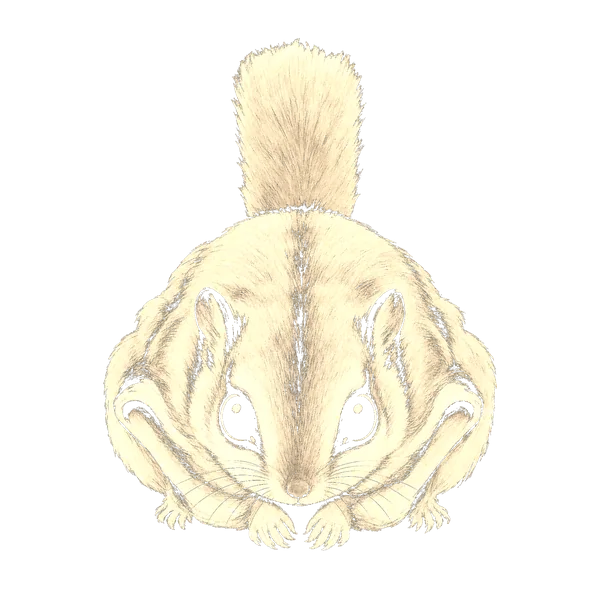
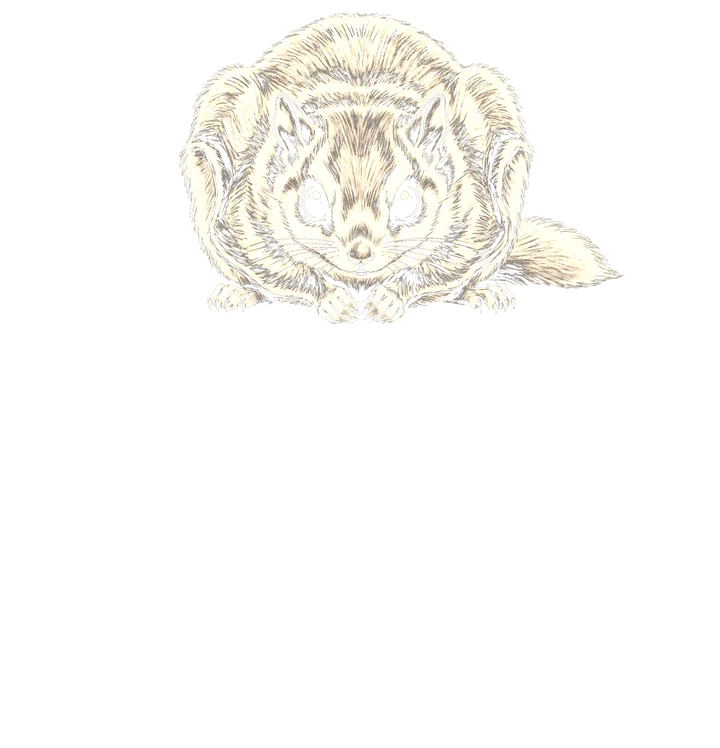
Every frame is the same animal, registered on its eyes, and the mixer has no clock
Three faults, three root causes.

1. THE FRAMES WERE NOT THE SAME SQUIRREL. They were five independent
   generations, which can never be the same individual — different faces,
   different proportions, and one of them grew a sixth leg. All five are
   redrawn from ONE reference image through a reference-driven model, so the
   face, the eyes, the fur markings, the line weight and the proportions carry
   across. Checked frame by frame: four legs and one tail in every one.

2. THEY DID NOT LINE UP. Cropping every frame to a shared bounding box was the
   wrong fix — it aligns the FRAMES, not the ANIMAL, so the squirrel still slid
   around inside them. They are registered on the animal's EYES instead: the
   eyes are found as the enclosed dark holes inside the bright silhouette
   (flood-fill from the border, whatever the background cannot reach is a
   hole), then every frame is scaled so the inter-eye distance matches and
   shifted so the eye midpoint lands on the same point. The head now holds
   still and the body opens around it, which is what stops the jump.

3. THE FRAME MIXER HAD ITS OWN CLOCK. Pose changes fired gsap.to() tweens on a
   cue crossing. A tween runs on time, not on scroll, so scrolling fast fired
   three of them on top of each other and scrolling backwards played the fades
   forwards. Opacity is a pure function of scroll position now — nothing to
   race, nothing to interrupt. Proven, not assumed: 94 samples across the whole
[…]

diff --git a/main.js b/main.js
@@ -292,10 +292,8 @@
        fraction of the flight, and the first two live entirely inside the ink's
        hold — which is what makes scrolling feel like it CAUSES the launch. */
     var order = ["sit", "crouch", "open", "glide", "flare"];
-    var frames = {};
-    order.forEach(function (k) { frames[k] = flier.querySelector(".pose-" + k); });
+    var frames = order.map(function (k) { return flier.querySelector(".pose-" + k); });
     var de = document.documentElement;
-    var shown = null;
 
     var geo = null;
     function measure() {
@@ -315,7 +313,7 @@
       }
       flier.style.width = w.toFixed(1) + "px";
       return { cx: b.left + b.width / 2, cy: b.top + b.height / 2,
-               fw: w, fh: w * (986 / 1160) };
+               fw: w, fh: w * (1766 / 1700) };
     }
 
     /* The ink HOLDS its shape for the first stretch — that pause is the whole
@@ -324,10 +322,8 @@
        cream edges spill onto cream paper, which just reads as a clipped
        sprite. Measured: without this it was 16% wider than the ink at the
        moment the flood finally opened.
-       HOLD is the ink's own hold expressed in this trigger's units:
-       0.37 of a 0.26vh ride, inside a 0.42vh flight. */
-    /* the ink's hold, expressed in THIS trigger's units — derived, never typed
-       twice, so slowing one down slows the other by exactly as much */
+       Derived from the ink's own numbers, never typed twice, so retiming one
+       retimes the other by exactly as much. */
     var HOLD = (INK_RIDE * INK_HOLD) / FLY_RIDE;
     /* Distance in a straight line looks like a lift, not an approach. Real
        approach is exponential: almost nothing for a long time, then the last
@@ -343,6 +339,45 @@
          land on cream. Checked at the worst point, mid-flood: 239 against a
          432 radius. */
       return Math.pow((p - HOLD) / (1 - HOLD), 1.5);
+    }
+
+    /* WHERE EACH FRAME IS ITS ONLY SELF.
+       Two of the five live inside the ink's hold, so the launch is over before
+       the flood even opens; the last three carry the approach. */
+    /* HOLD is where the flood lets go, so the first two frames — still, then
+       gathered — are over before anything moves, and the animal opens on
+       exactly the frame the ink does. Written against HOLD rather than as
+       fixed numbers so retiming the ink retimes the launch with it. */
+    var STOPS = [0, HOLD * 0.55, HOLD, HOLD + 0.18, 0.86];
+    /* the blend is short on purpose. Two cream drawings held at half opacity
+       over each other is a double exposure, not an animation — so each frame
+       HOLDS, then swaps across the last quarter of its interval. */
+    var BLEND = 0.26;
+
+    /* Opacity is a pure function of scroll position. It used to be a set of
+       gsap.to() tweens fired on a cue change, which is the bug: a tween has its
+       own clock, so scrolling fast fired three of them on top of each other and
+       scrolling backwards played the fades forwards. Nothing here has a clock —
+       the same scroll position always paints the same frame, in both
+       directions, at any speed. */
+    function paint(p) {
+      var i, lo = 0;
+      for (i = 0; i < STOPS.length; i++) if (p >= STOPS[i]) lo = i;
+      var hi = Math.min(order.length - 1, lo + 1);
+      var t = 0;
+      if (hi > lo) {
+        var span = STOPS[hi] - STOPS[lo];
+        var into = (p - STOPS[lo]) / span;              /* 0..1 across the hold */
+        var start = 1 - BLEND;
+        t = into <= start ? 0 : (into - start) / BLEND;
+        t = Math.min(1, Math.max(0, t));
+        t = t * t * (3 - 2 * t);                        /* smoothstep */
+      }
+      for (i = 0; i < frames.length; i++) {
+        if (!frames[i]) continue;
+        var o = i === lo ? 1 - t : (i === hi ? t : 0);
+        if (frames[i].__o !== o) { frames[i].__o = o; frames[i].style.opacity = o; }
+      }
     }
 
     function place(p) {
@@ -365,18 +400,7 @@
            end, because a slow fade would read as a ghost rather than a body */
         opacity: p < 0.02 ? p / 0.02 : (p > 0.80 ? Math.max(0, 1 - (p - 0.80) / 0.20) : 1)
       });
-      /* cues: two inside the hold, three across the approach */
-      var want = p < HOLD * 0.42 ? "sit"
-               : p < HOLD ? "crouch"
-               : p < HOLD + 0.10 ? "open"
-               : p < 0.74 ? "glide" : "flare";
-      if (want !== shown) {
-        shown = want;
-        order.forEach(function (k) {
-          if (frames[k]) gsap.to(frames[k], { opacity: k === want ? 1 : 0,
-            duration: 0.26, ease: "power2.out", overwrite: true });
-        });
-      }
+      paint(p);
       /* shuchusen — the converging speed lines a woodblock uses for something
          moving fast at the viewer. They open with the animal and outrun it. */
       if (rush) {
@@ -404,12 +428,9 @@
         /* Home again. Without this the flier keeps whatever frame it died on —
            scroll to the bottom and back and you find the flare pose sitting
            invisible over the disc, ready to flash on the next nudge. */
-        shown = null;
         gsap.set(flier, { opacity: 0 });
         if (rush) gsap.set(rush, { opacity: 0 });
-        order.forEach(function (k) {
-          if (frames[k]) gsap.set(frames[k], { opacity: k === "sit" ? 1 : 0 });
-        });
+        paint(0);
       }
     });
 

diff --git a/index-tr.html b/index-tr.html
@@ -39,7 +39,7 @@
   <link rel="preload" as="image" imagesrcset="assets/horizon-900.webp 900w, assets/horizon-1400.webp 1400w, assets/horizon.webp 1920w" imagesizes="110vw" fetchpriority="high">
   <link rel="preload" as="image" href="assets/disc-ink.webp" fetchpriority="high">
   <link rel="preload" as="image" href="assets/momo-1-sit.webp" fetchpriority="high">
-  <link rel="stylesheet" href="style.css?v=104">
+  <link rel="stylesheet" href="style.css?v=106">
   <script type="application/ld+json">
   {"@context": "https://schema.org", "@type": "Organization", "name": "217 Products", "url": "https://217products.com/", "logo": "https://217products.com/assets/icon-512.png", "image": "https://217products.com/assets/zen.webp", "description": "Ankara’dan dünyaya açılan bağımsız bir ürün şirketiyiz. Gördüğümüz boşluklara hızlı, sade ve uzun ömürlü ürünler inşa ediyoruz.", "email": "destek217product@gmail.com", "foundingDate": "2026", "address": {"@type": "PostalAddress", "addressLocality": "Ankara", "addressCountry": "TR"}}
   </script>
@@ -69,7 +69,7 @@
 
   <aside class="tate" aria-hidden="true"><span class="seal">二一七</span><span class="tate-t">ANKARA</span></aside>
 
-  <div class="flier" aria-hidden="true"><img class="pose pose-sit" src="assets/momo-1-sit.webp" alt="" width="600" height="605" decoding="sync"><img class="pose pose-crouch" src="assets/momo-2-crouch.webp" alt="" width="600" height="605" decoding="async"><img class="pose pose-open" src="assets/momo-3-open.webp" alt="" width="760" height="767" decoding="async"><img class="pose pose-glide" src="assets/momo-4-glide.webp" alt="" width="1100" height="1110" decoding="async"><img class="pose pose-flare" src="assets/momo-5-flare.webp" alt="" width="1100" height="1110" decoding="async"></div>
+  <div class="flier" aria-hidden="true"><img class="pose pose-sit" src="assets/momo-1-sit.webp" alt="" width="720" height="748" decoding="sync"><img class="pose pose-crouch" src="assets/momo-2-crouch.webp" alt="" width="720" height="748" decoding="async"><img class="pose pose-open" src="assets/momo-3-open.webp" alt="" width="900" height="935" decoding="async"><img class="pose pose-glide" src="assets/momo-4-glide.webp" alt="" width="1250" height="1299" decoding="async"><img class="pose pose-flare" src="assets/momo-5-flare.webp" alt="" width="1250" height="1299" decoding="async"></div>
   <div class="rush" aria-hidden="true"><i></i><i></i><i></i><i></i><i></i><i></i><i></i><i></i><i></i><i></i><i></i><i></i><i></i><i></i></div>
 
   <main id="main">
@@ -83,7 +83,7 @@
       <div class="specks" aria-hidden="true"><i></i><i></i><i></i><i></i><i></i><i></i><i></i><i></i><i></i><i></i><i></i><i></i><i></i><i></i><i></i><i></i></div>
 
       <h1 class="hero-head rise">
-        <span class="hero-line">En iyinin <span class="blot"><img class="blot-ink" src="assets/disc-ink.webp" alt="" width="320" height="320" decoding="sync" fetchpriority="high"><i class="blot-fill"></i><img class="blot-figure" src="assets/momo-1-sit.webp" alt="" width="600" height="605" decoding="sync" fetchpriority="high"></span> ardında</span>
+        <span class="hero-line">En iyinin <span class="blot"><img class="blot-ink" src="assets/disc-ink.webp" alt="" width="320" height="320" decoding="sync" fetchpriority="high"><i class="blot-fill"></i><img class="blot-figure" src="assets/momo-1-sit.webp" alt="" width="720" height="748" decoding="sync" fetchpriority="high"></span> ardında</span>
         <span class="hero-line">hep bir <em>fikir</em> vardır.</span>
       </h1>
 
@@ -97,7 +97,7 @@
     <!-- 2 · PRODUCTS -->
     <section class="products" id="products">
       <p class="shelf-line rise">Bir boşluk görürüz.<br>Bir <em>ürün</em> kurarız.</p>
-      <div class="shelf-head rise"><img class="perch" aria-hidden="true" src="assets/momo-perch.webp" alt="" width="620" height="476" loading="lazy" decoding="async"><span class="shelf-eyebrow">RAFTA</span><span class="shelf-num">01 / 01</span></div>
+      <div class="shelf-head rise"><img class="perch" aria-hidden="true" src="assets/momo-perch.webp" alt="" width="640" height="486" loading="lazy" decoding="async"><span class="shelf-eyebrow">RAFTA</span><span class="shelf-num">01 / 01</span></div>
       <div class="product">
         <figure class="product-art rise" data-parallax="0.12">
           <img loading="lazy" decoding="async" src="assets/osnote-rich.webp?u=5" alt="OSNote — tablette bir sayfanın üstünde yüzen el yazısı araç çubuğu, kalemle işaretleniyor" width="1200" height="896">
@@ -254,6 +254,6 @@
   <script src="vendor/ScrollTrigger.min.js?v=3.15.0"></script>
   <script src="vendor/lenis.min.js?v=1.3.25"></script>
   <script type="module" src="globe3d.js?v=17"></script>
-  <script src="main.js?v=63"></script>
+  <script src="main.js?v=65"></script>
 </body>
 </html>

diff --git a/index.html b/index.html
@@ -39,7 +39,7 @@
   <link rel="preload" as="image" imagesrcset="assets/horizon-900.webp 900w, assets/horizon-1400.webp 1400w, assets/horizon.webp 1920w" imagesizes="110vw" fetchpriority="high">
   <link rel="preload" as="image" href="assets/disc-ink.webp" fetchpriority="high">
   <link rel="preload" as="image" href="assets/momo-1-sit.webp" fetchpriority="high">
-  <link rel="stylesheet" href="style.css?v=104">
+  <link rel="stylesheet" href="style.css?v=106">
   <script type="application/ld+json">
   {"@context": "https://schema.org", "@type": "Organization", "name": "217 Products", "url": "https://217products.com/", "logo": "https://217products.com/assets/icon-512.png", "image": "https://217products.com/assets/zen.webp", "description": "An independent product company reaching from Ankara to the world. Where we see a gap, we build products that are fast, simple, and made to last.", "email": "destek217product@gmail.com", "foundingDate": "2026", "address": {"@type": "PostalAddress", "addressLocality": "Ankara", "addressCountry": "TR"}}
   </script>
@@ -69,7 +69,7 @@
 
   <aside class="tate" aria-hidden="true"><span class="seal">二一七</span><span class="tate-t">ANKARA</span></aside>
 
-  <div class="flier" aria-hidden="true"><img class="pose pose-sit" src="assets/momo-1-sit.webp" alt="" width="600" height="605" decoding="sync"><img class="pose pose-crouch" src="assets/momo-2-crouch.webp" alt="" width="600" height="605" decoding="async"><img class="pose pose-open" src="assets/momo-3-open.webp" alt="" width="760" height="767" decoding="async"><img class="pose pose-glide" src="assets/momo-4-glide.webp" alt="" width="1100" height="1110" decoding="async"><img class="pose pose-flare" src="assets/momo-5-flare.webp" alt="" width="1100" height="1110" decoding="async"></div>
+  <div class="flier" aria-hidden="true"><img class="pose pose-sit" src="assets/momo-1-sit.webp" alt="" width="720" height="748" decoding="sync"><img class="pose pose-crouch" src="assets/momo-2-crouch.webp" alt="" width="720" height="748" decoding="async"><img class="pose pose-open" src="assets/momo-3-open.webp" alt="" width="900" height="935" decoding="async"><img class="pose pose-glide" src="assets/momo-4-glide.webp" alt="" width="1250" height="1299" decoding="async"><img class="pose pose-flare" src="assets/momo-5-flare.webp" alt="" width="1250" height="1299" decoding="async"></div>
   <div class="rush" aria-hidden="true"><i></i><i></i><i></i><i></i><i></i><i></i><i></i><i></i><i></i><i></i><i></i><i></i><i></i><i></i></div>
 
   <main id="main">
@@ -83,7 +83,7 @@
       <div class="specks" aria-hidden="true"><i></i><i></i><i></i><i></i><i></i><i></i><i></i><i></i><i></i><i></i><i></i><i></i><i></i><i></i><i></i><i></i></div>
 
       <h1 class="hero-head rise">
-        <span class="hero-line">Behind the <span class="blot"><img class="blot-ink" src="assets/disc-ink.webp" alt="" width="320" height="320" decoding="sync" fetchpriority="high"><i class="blot-fill"></i><img class="blot-figure" src="assets/momo-1-sit.webp" alt="" width="600" height="605" decoding="sync" fetchpriority="high"></span> best,</span>
+        <span class="hero-line">Behind the <span class="blot"><img class="blot-ink" src="assets/disc-ink.webp" alt="" width="320" height="320" decoding="sync" fetchpriority="high"><i class="blot-fill"></i><img class="blot-figure" src="assets/momo-1-sit.webp" alt="" width="720" height="748" decoding="sync" fetchpriority="high"></span> best,</span>
         <span class="hero-line">there is always an <em>idea</em>.</span>
       </h1>
 
@@ -97,7 +97,7 @@
     <!-- 2 · PRODUCTS -->
     <section class="products" id="products">
       <p class="shelf-line rise">We see a gap.<br>We build a <em>product</em>.</p>
-      <div class="shelf-head rise"><img class="perch" aria-hidden="true" src="assets/momo-perch.webp" alt="" width="620" height="476" loading="lazy" decoding="async"><span class="shelf-eyebrow">ON THE SHELF</span><span class="shelf-num">01 / 01</span></div>
+      <div class="shelf-head rise"><img class="perch" aria-hidden="true" src="assets/momo-perch.webp" alt="" width="640" height="486" loading="lazy" decoding="async"><span class="shelf-eyebrow">ON THE SHELF</span><span class="shelf-num">01 / 01</span></div>
       <div class="product">
         <figure class="product-art rise" data-parallax="0.12">
           <img loading="lazy" decoding="async" src="assets/osnote-rich.webp?u=5" alt="OSNote — the floating handwriting toolbar over a page on a tablet, a stylus annotating it" width="1200" height="896">
@@ -254,6 +254,6 @@
   <script src="vendor/ScrollTrigger.min.js?v=3.15.0"></script>
   <script src="vendor/lenis.min.js?v=1.3.25"></script>
   <script type="module" src="globe3d.js?v=17"></script>
-  <script src="main.js?v=63"></script>
+  <script src="main.js?v=65"></script>
 </body>
 </html>

diff --git a/style.css b/style.css
@@ -539,9 +539,11 @@ html:not(.scrolled) .blot { pointer-events: auto; cursor: pointer; }
    first frame. */
 .blot-figure {
   position: absolute; inset: 0; margin: auto;
-  /* the sitting pose is taller than it is wide, unlike the spread glide it
-     replaced, so the disc holds it by HEIGHT and lets the width follow */
-  width: 80%; height: 80.7%; max-width: none;
+  /* Every frame shares one canvas registered on the animal's EYES, so the
+     resting pose only fills 77% of its own frame — the rest is the room the
+     spread poses need. The disc therefore holds a frame slightly LARGER than
+     itself so the animal inside it lands at the right size. */
+  width: 112%; height: 116.3%; max-width: none;
   will-change: transform, opacity; user-select: none; pointer-events: none;
 }
 .blot .blot-fill {
@@ -1058,7 +1060,7 @@ html, body { max-width: 100%; overflow-x: hidden; overflow-x: clip; }
   position: fixed; left: 0; top: 0; z-index: 38;
   /* width is set by the script from the figure in the disc, so the handoff on
      the first frame is pixel-exact; this is only the pre-mount fallback */
-  width: 200px; aspect-ratio: 1100 / 1110;
+  width: 200px; aspect-ratio: 1700 / 1766;
   pointer-events: none; visibility: hidden; opacity: 0;
   transform-origin: 50% 50%; will-change: transform, opacity;
 }
@@ -1114,9 +1116,9 @@ html.in-flight .flier, html.in-flight .rush { visibility: visible; }
   --pw: clamp(104px, 11vw, 168px);
   position: absolute; right: clamp(58px, 7vw, 120px);
   width: var(--pw); height: auto;
-  /* its own tight crop puts the feet at 98.1% of the height, so it only
-     hangs 1.9% of that below the rule: 0.019 x (476/620) x width */
-  bottom: calc(var(--pw) * -0.0146);
+  /* its own tight crop puts the feet at 98.6% of the height, so it hangs
+     1.4% of that below the rule: 0.014 x (486/640) x width */
+  bottom: calc(var(--pw) * -0.0106);
   pointer-events: none; user-select: none; z-index: 2;
 }
 @media (max-width: 700px) { .perch { --pw: clamp(88px, 26vw, 116px); right: 0; } }
